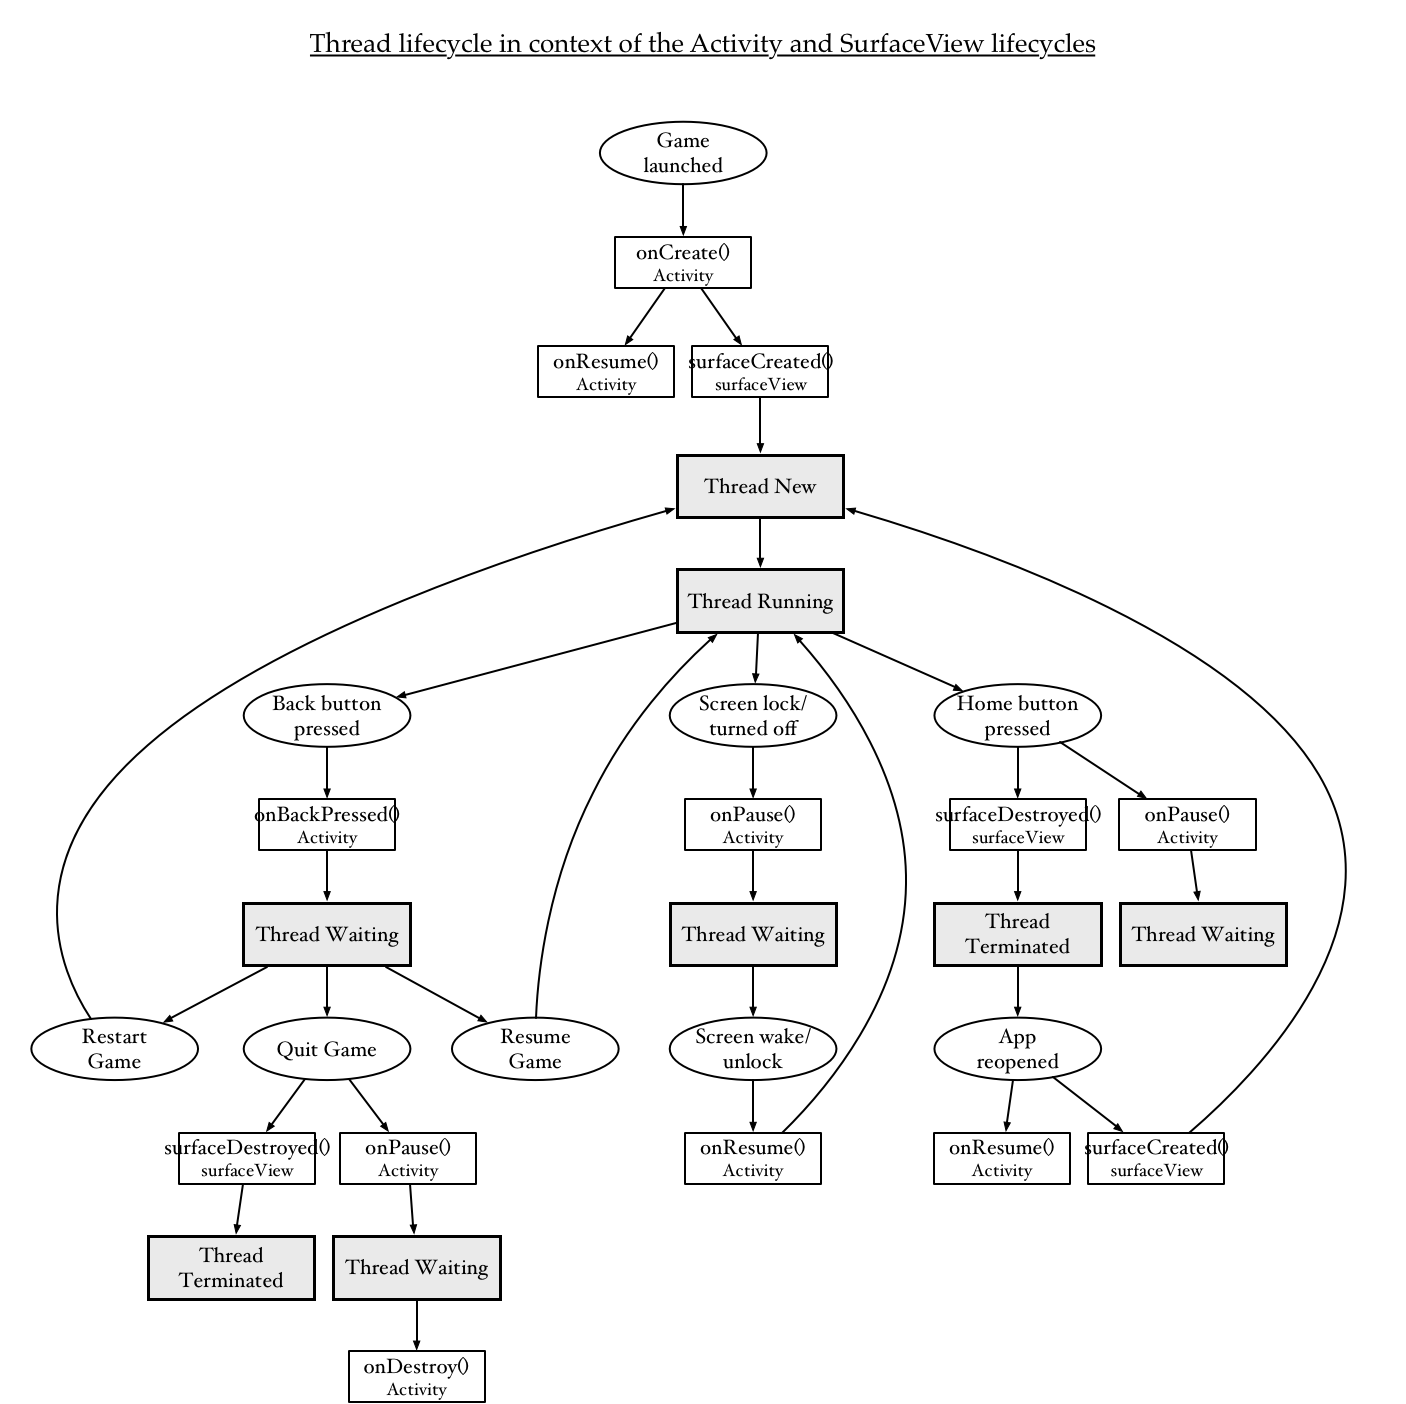
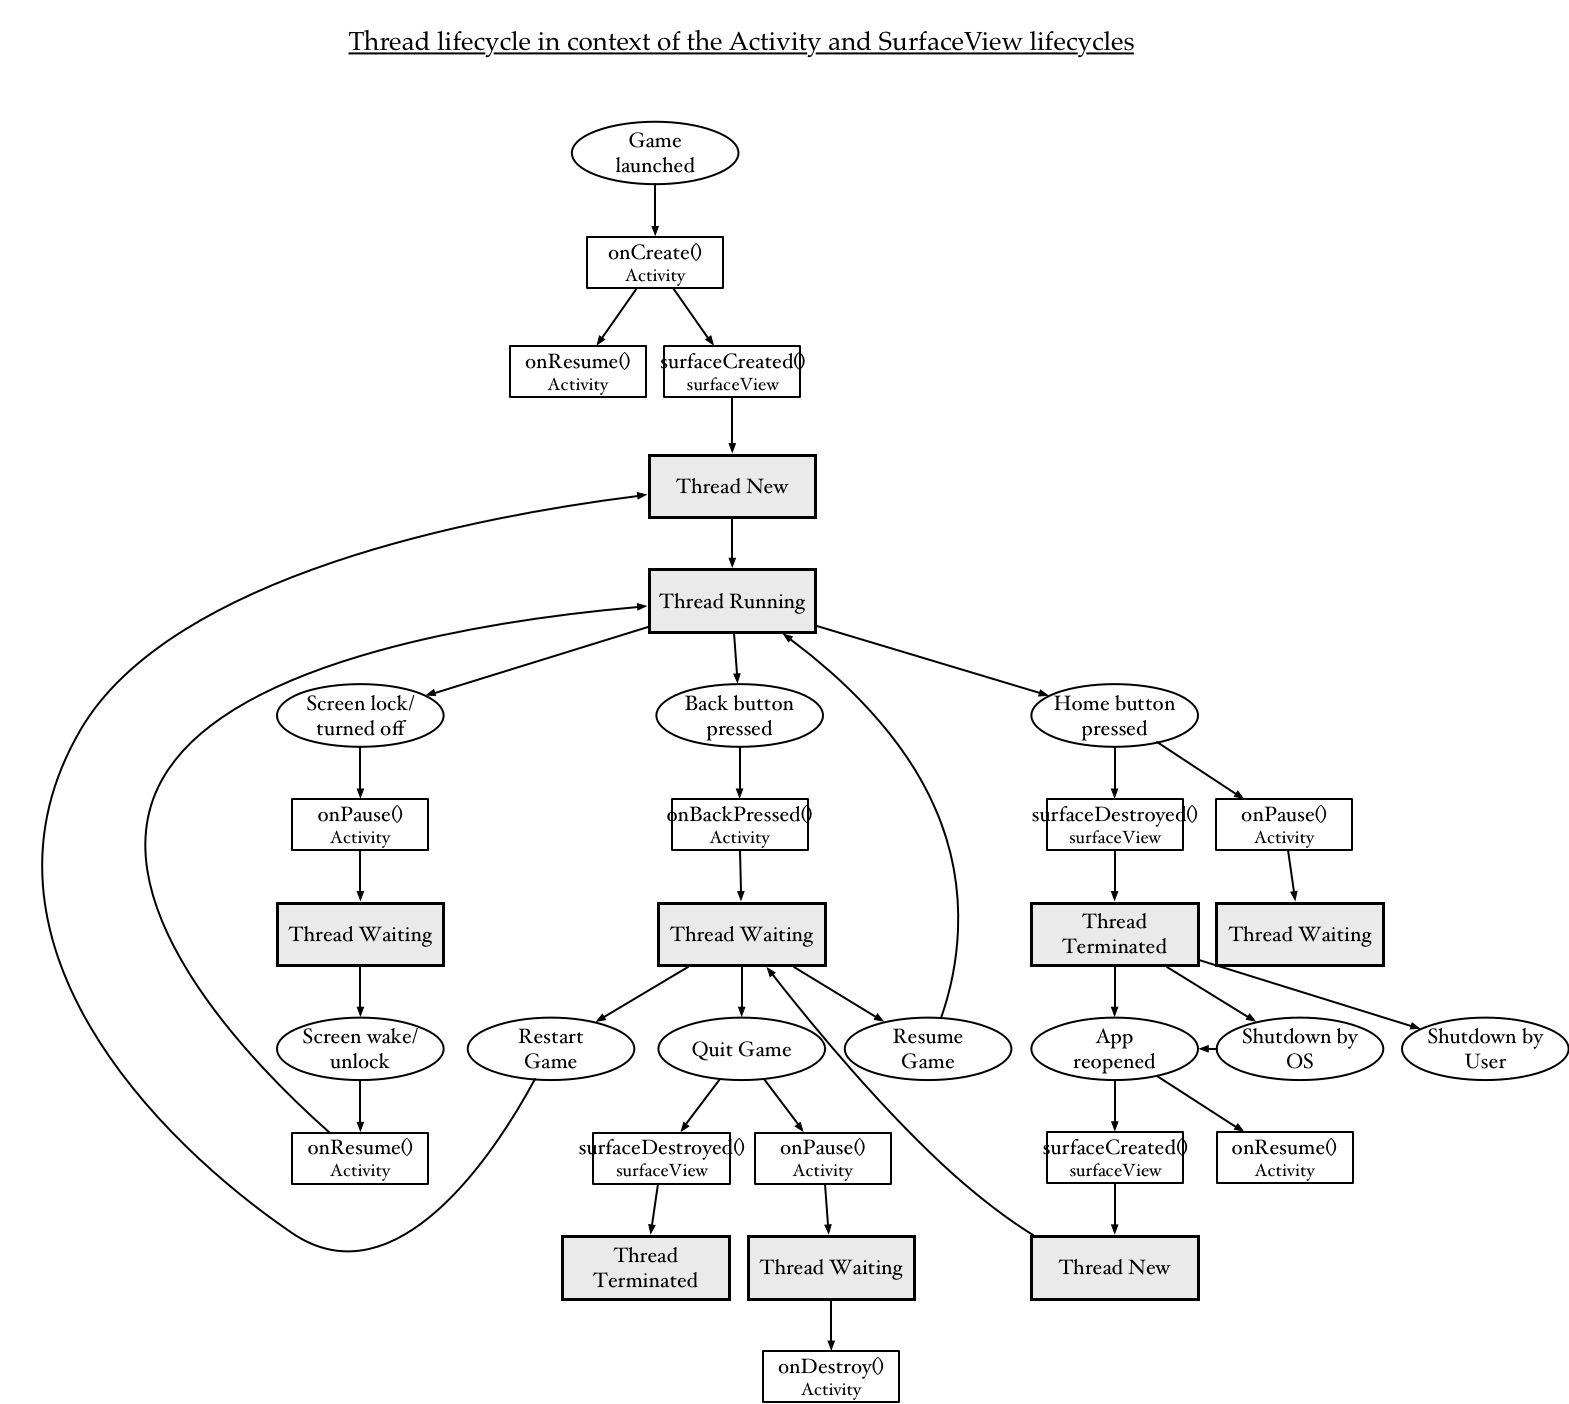
finished thread lifecycle prototype & updated lifecycle doc

diff --git a/prototyping/Kuba/DotsCanvas/app/src/main/java/ca/brocku/dotscanvas/app/GameSurfaceView.java b/prototyping/Kuba/DotsCanvas/app/src/main/java/ca/brocku/dotscanvas/app/GameSurfaceView.java
@@ -1,9 +1,11 @@
 package ca.brocku.dotscanvas.app;
 
 import android.content.Context;
+import android.content.SharedPreferences;
 import android.graphics.Canvas;
 import android.graphics.Color;
 import android.graphics.Paint;
+import android.os.Bundle;
 import android.util.AttributeSet;
 import android.util.Log;
 import android.view.SurfaceHolder;
@@ -27,6 +29,11 @@ public class GameSurfaceView extends SurfaceView implements SurfaceHolder.Callba
         surfaceHolder.addCallback(this);
 
         mContext =  context;
+
+        //Clear any saved game state
+        SharedPreferences.Editor editor =
+                mContext.getSharedPreferences(GameThread.GAME_STATE_FILENAME, Context.MODE_PRIVATE).edit();
+        editor.clear().commit();
     }
 
     /**
@@ -43,6 +50,7 @@ public class GameSurfaceView extends SurfaceView implements SurfaceHolder.Callba
     public void surfaceCreated(SurfaceHolder surfaceHolder) {
         Log.e("surfaceCreated", "started");
         thread = new GameThread(surfaceHolder, mContext);
+        thread.restoreState();
         thread.setRunning(true);
         thread.start();
         Log.e("surfaceCreated", "finished");
@@ -83,6 +91,7 @@ public class GameSurfaceView extends SurfaceView implements SurfaceHolder.Callba
                 e.printStackTrace();
             }
         }
+        thread.saveState();
         Log.e("surfaceDestroyed", "finished");
     }
 
@@ -98,20 +107,30 @@ public class GameSurfaceView extends SurfaceView implements SurfaceHolder.Callba
         }
     }
 
+    public GameThread getGameThread() {
+        return thread;
+    }
 
     /**
      * This is the Thread which draws to the Canvas.
      */
     class GameThread extends Thread {
+        //Strings used for storing the game state
+        private static final String GAME_STATE_FILENAME = "GAME_STATE";
+        private static final String GAME_COUNTER = "GAME_COUNTER";
+
         private SurfaceHolder mSurfaceHolder;
         private Context mContext;
 
         private boolean mRun;  //whether the surface has been created & is ready to draw
         private boolean mBlock; //whether the surface has lost focus
 
-        private String TEMP_UUID = UUID.randomUUID().toString();
+        private boolean isGameOver; //has the game completed
+        private boolean isQuitRequested; //is the user quitting the game
 
         private int counter = 0;
+
+        private String TEMP_UUID = UUID.randomUUID().toString();
 
         public GameThread(SurfaceHolder surfaceHolder, Context context) {
             mSurfaceHolder = surfaceHolder;
@@ -119,6 +138,9 @@ public class GameSurfaceView extends SurfaceView implements SurfaceHolder.Callba
 
             mRun = false;
             mBlock = false;
+
+            isGameOver = false;
+            isQuitRequested = false;
         }
 
         @Override
@@ -183,6 +205,60 @@ public class GameSurfaceView extends SurfaceView implements SurfaceHolder.Callba
             synchronized (mSurfaceHolder) {
                 mBlock = false;
                 mSurfaceHolder.notifyAll();
+            }
+        }
+
+        public void saveState() {
+            Log.e("THREAD", "saveState");
+            synchronized (mSurfaceHolder) {
+                if(!isGameOver && !isQuitRequested) {
+                    SharedPreferences.Editor editor =
+                            mContext.getSharedPreferences(GAME_STATE_FILENAME, Context.MODE_PRIVATE).edit();
+
+                    //List of variables to store
+                    //TODO: save all values
+                    editor
+                            .putInt(GAME_COUNTER, counter)
+                            .commit();
+                }
+            }
+        }
+
+        public void restoreState() {
+            Log.e("THREAD", "restoreState");
+            synchronized (mSurfaceHolder) {
+                SharedPreferences sharedPreferences =
+                        mContext.getSharedPreferences(GAME_STATE_FILENAME, Context.MODE_PRIVATE);
+
+                //List of variables to restore
+                counter = sharedPreferences.getInt(GAME_COUNTER, 0);
+                //TODO: restore all values
+
+                //Clear the loaded state
+                clearState();
+            }
+        }
+
+        public void clearState() {
+            Log.e("THREAD", "clearState");
+            synchronized (mSurfaceHolder) {
+                SharedPreferences.Editor editor =
+                        mContext.getSharedPreferences(GAME_STATE_FILENAME, Context.MODE_PRIVATE).edit();
+
+                //Clear the saved game state
+                editor.clear().commit();
+            }
+        }
+
+        public boolean isGameOver() {
+            synchronized (mSurfaceHolder) {
+                return isGameOver;
+            }
+        }
+
+        public void setQuitRequested(boolean isQuitRequested) {
+            synchronized (mSurfaceHolder) {
+                this.isQuitRequested = isQuitRequested;
             }
         }
 

diff --git a/prototyping/Kuba/DotsCanvas/app/src/main/java/ca/brocku/dotscanvas/app/MainActivity.java b/prototyping/Kuba/DotsCanvas/app/src/main/java/ca/brocku/dotscanvas/app/MainActivity.java
@@ -16,32 +16,16 @@ public class MainActivity extends ActionBarActivity {
         setContentView(R.layout.activity_main);
 
         mGameSurfaceView = (GameSurfaceView) findViewById(R.id.game_surfaceView);
-
-        if (savedInstanceState == null) {
-            // we were just launched: set up a new game
-            //mLunarThread.setState(LunarThread.STATE_READY);
-            Log.w(this.getClass().getName(), "SIS is null");
-        } else {
-            // we are being restored: resume a previous game
-            //mLunarThread.restoreState(savedInstanceState);
-            Log.w(this.getClass().getName(), "SIS is non-null");
-        }
-
     }
 
     @Override
     public boolean onCreateOptionsMenu(Menu menu) {
-        
-        // Inflate the menu; this adds items to the action bar if it is present.
         getMenuInflater().inflate(R.menu.main, menu);
         return true;
     }
 
     @Override
     public boolean onOptionsItemSelected(MenuItem item) {
-        // Handle action bar item clicks here. The action bar will
-        // automatically handle clicks on the Home/Up button, so long
-        // as you specify a parent activity in AndroidManifest.xml.
         int id = item.getItemId();
         if (id == R.id.action_settings) {
             return true;
@@ -63,18 +47,10 @@ public class MainActivity extends ActionBarActivity {
         mGameSurfaceView.onResumeGame(); //resume game when Activity resumes
     }
 
-    /**
-     * Notification that something is about to happen, to give the Activity a
-     * chance to save state.
-     *
-     * @param outState a Bundle into which this Activity should save its state
-     */
-//    @Override
-//    protected void onSaveInstanceState(Bundle outState) {
-//        // just have the View's thread save its state into our Bundle
-//        super.onSaveInstanceState(outState);
-//        //gameThread.saveState(outState);
-//        Log.w(this.getClass().getName(), "SIS called");
-//    }
+    @Override
+    public void onBackPressed() {
+        //TODO: display pause menu here...call mGameSurfaceView.onPauseGame() or possibly this.onPause() to wait thread
 
+        //super.onBackPressed();
+    }
 }
